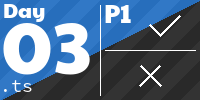
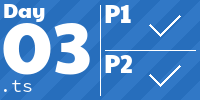
2025 Day 3 part 2

diff --git a/2025/03/main.ts b/2025/03/main.ts
@@ -1,20 +1,53 @@
 import { readLines } from "../utils";
 
-function findLargestJoltage(line: string): number {
-  let maxSeen = 0;
-  for (let i = 0; i < line.length - 1; i++) {
-    const largestOnesDigit = Math.max(
-      ...line.slice(i + 1).split("").map((c) => parseInt(c)),
-    );
+class Key {
+  private static pool = new Map<string, Key>();
+
+  private constructor(public line: string, public n: number) {}
+
+  static of(s: string, n: number): Key {
+    const hash = `${s}:${n}`;
+    if (!this.pool.has(hash)) {
+      this.pool.set(hash, new Key(s, n));
+    }
+    return this.pool.get(hash)!;
+  }
+}
+
+const memo = new Map<Key, number>();
+
+function findLargestJoltage(line: string, n: number): number {
+  const key = Key.of(line, n);
+  if (memo.has(key)) {
+    return memo.get(key)!;
+  }
+
+  let maxSeen = -1;
+  if (n === 0) {
+    maxSeen = 0;
+  } else if (line.length === 0) {
+    maxSeen = -1;
+  } else if (line.length >= n) {
+    // don't take the first number
+    maxSeen = Math.max(maxSeen, findLargestJoltage(line.slice(1), n));
+
+    // take the first number
     maxSeen = Math.max(
       maxSeen,
-      parseInt(line[i]) * 10 + largestOnesDigit,
+      parseInt(line[0]) * Math.pow(10, n - 1) +
+        findLargestJoltage(line.slice(1), n - 1),
     );
   }
+  memo.set(key, maxSeen);
   return maxSeen;
 }
 
 const input = await readLines();
-
-const part1 = input.map(findLargestJoltage).reduce((a, b) => a + b);
+const part1 = input.map((line) => findLargestJoltage(line, 2)).reduce((a, b) =>
+  a + b
+);
+const part2 = input.map((line) => findLargestJoltage(line, 12)).reduce((a, b) =>
+  a + b
+);
 console.log("Part 1:", part1);
+console.log("Part 2:", part2);

diff --git a/README.md b/README.md
@@ -1,9 +1,9 @@
 <!-- AOC TILES BEGIN -->
 <h1 align="center">
-  Advent of Code - 349/506 ⭐
+  Advent of Code - 350/506 ⭐
 </h1>
 <h1 align="center">
-  2025 - 5 ⭐ - TypeScript
+  2025 - 6 ⭐ - TypeScript
 </h1>
 <a href="2025/01/main.ts">
   <img src=".aoc_tiles/tiles/2025/01.png" width="161px">
